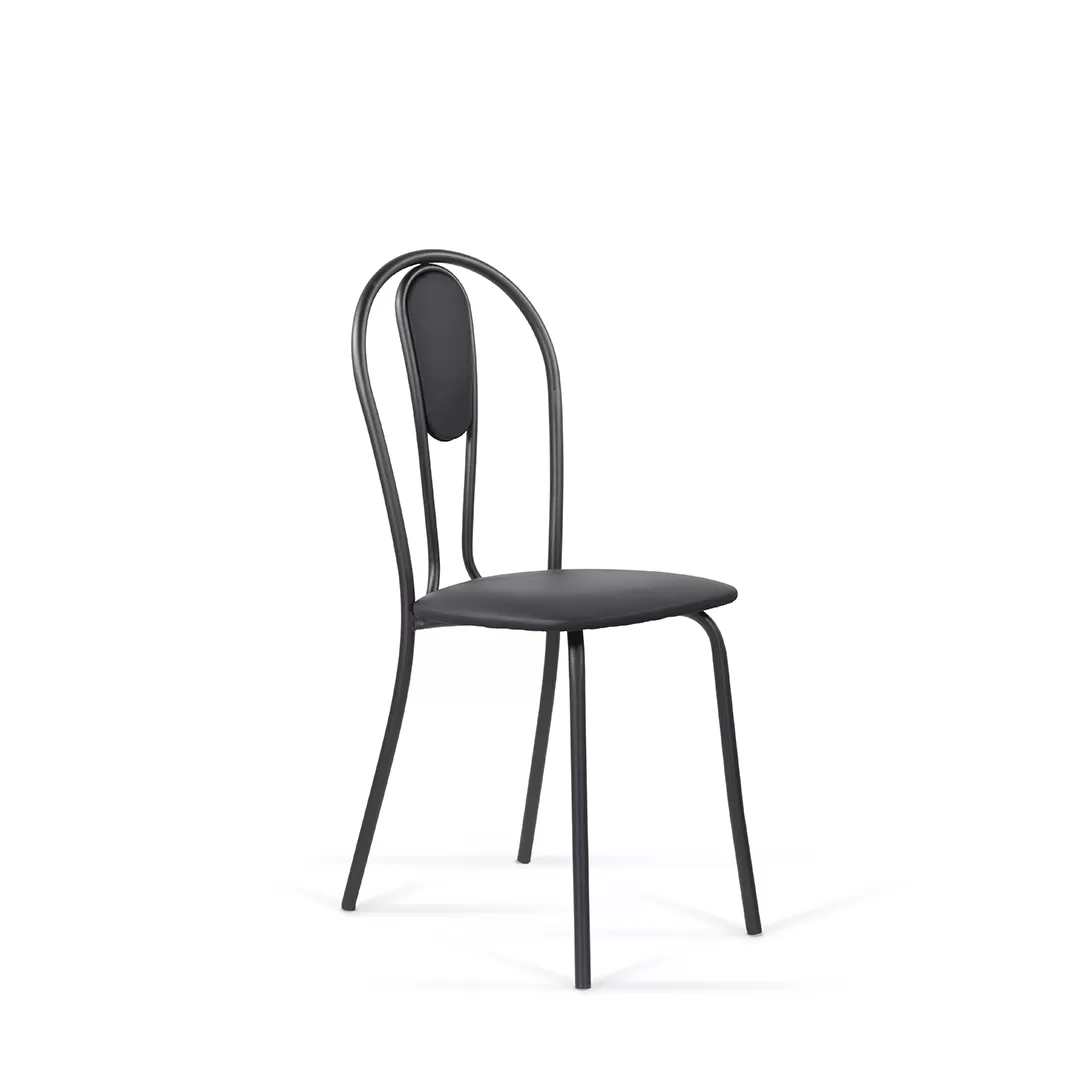
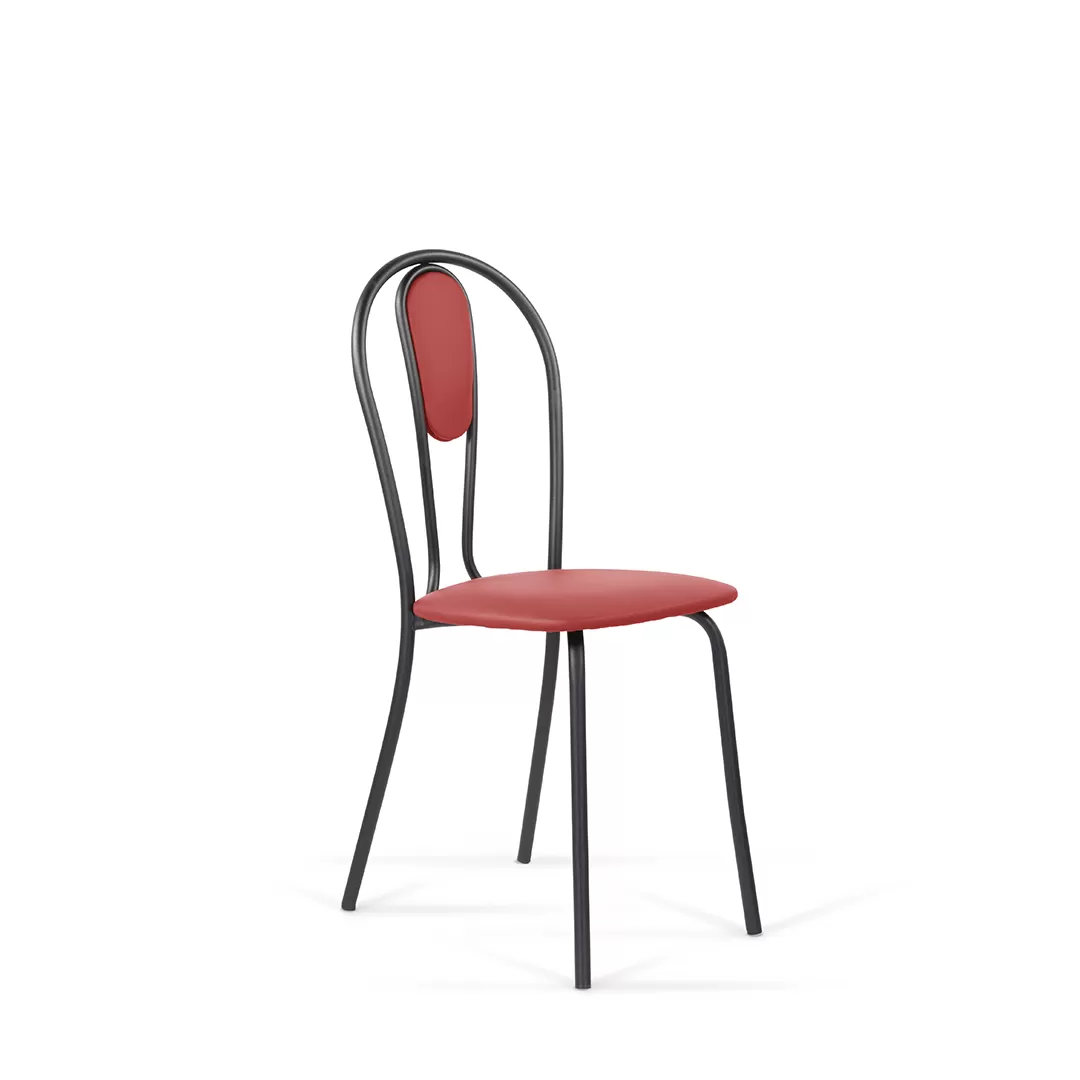
added chairs

Changed region(s): [[0.3667, 0.5194, 0.6722, 0.6111], [0.3667, 0.2444, 0.4583, 0.4278]]

diff --git a/script/products_lists/chair_cafe_and_bar.js b/script/products_lists/chair_cafe_and_bar.js
@@ -1,1 +1,1 @@
-const knownProducts = ["Бистро","Ванесса","Венус","Мвенус","Версаль","Марко","Нерон","Табурет"];
+const knownProducts = ["Бистро", "Бистро М","Ванесса","Венус","Венус М","Версаль","Марко","Нерон","Табурет"];
